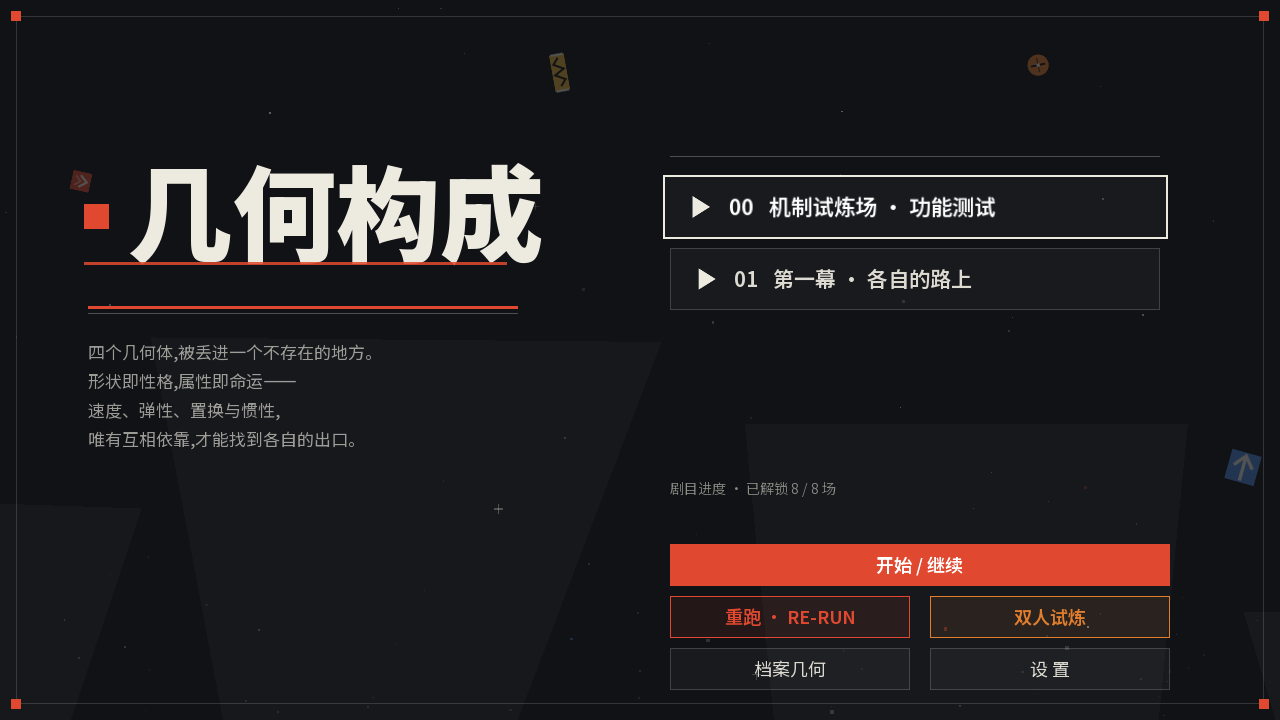
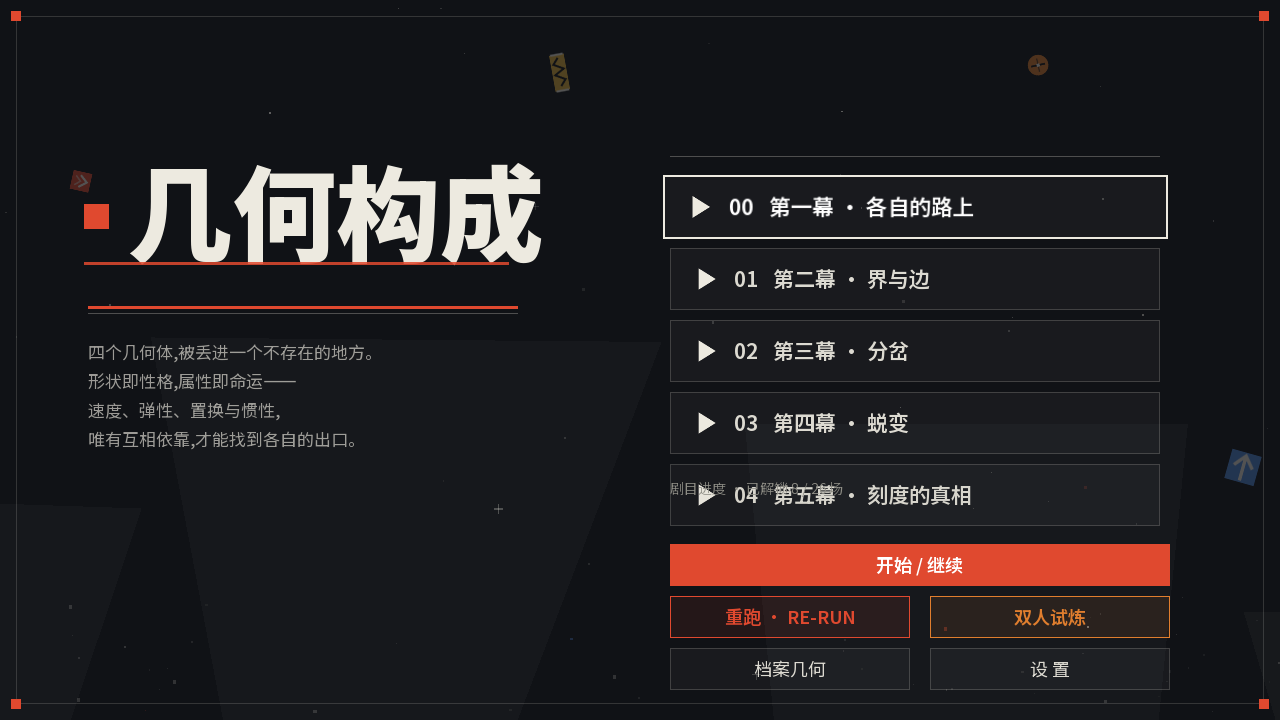
A 类清账:README 预览换五幕新关四图(旧 tube 引用为死链,一并修正)+ 图册 ui_02 菜单/ui_03 选关卡刷新(五幕剧目)+ story.md §1.5 幕表状态如实化(二~五幕 ✅ v0.44.0/第一幕正名「各自的路上」/序幕关卡清退注记/落幕占位如实);export_presets.cfg 的 etc2_astc=true 已还原至 HEAD(并行编辑器误删,建议保留声明)

diff --git a/docs/design/story.md b/docs/design/story.md
@@ -36,13 +36,13 @@
 
 | 幕 | 叙事课题 | 玩法课题 | 美术主题 | 状态 |
 |---|---|---|---|---|
-| **序幕** | 降临与相认:四几何体被丢入空白,红色刻度立规,"重拼不是终结" | 单几何体基础课 + 动态构件课 + 四人合演预演(六场连演) | 构成主义(基调) | ✅ v0.15 六场 |
-| **第一幕「引力排练」** | 巨构降临,分位规则确立——"每个人走自己的路,在各自的门里归位" | 四人合演大型关:承载链 / 置换交叉 / 速度圣殿 / 曲面板阵 / 全组合幕终 | **巨构主义**(尺度 3 倍巨面) | ✅ v0.11–v0.12 六场 |
-| **第二幕「界与边」** | 主线展开:第五刻度正式登场——界 / 边从"量天量地"的传说走进队伍;磁力边界揭示"过往"(空白处曾有第七形?) | 伍的完整教学链(磁界隔断 / 逆的递送配合)+ 旧机关复用出难题 | **极简主义**(减法关卡:留白即道路) | 📋 伍实装(V2)后立 |
-| **第三幕「分岔」** | 个人幕间:每位几何体一段独白支线(重跑单章刻画的"正剧版");轻度引入重跑系统作为"排练 own 路"的玩法语言;剧情分支处理(依幕间表现微调第五幕措辞) | 娱乐性机关与地图(钢琴砖 / 限时桥高阶编排);多解分支路 | **梦核主义**(柔光规则例外章,art-style §8) | 📋 |
-| **第四幕「蜕变」** | 部分个人幕间性格蜕变与升华(疾学会停、跃学会为自己折一次、逆落地、圆回头一次),回归主线 | 蜕变 = 该幕专属词条式关卡变奏(角色用出"不像自己"的能力课) | 构成主义 + 角色色强化 | 📋 |
-| **第五幕「刻度的真相」** | 各种设定初步表明:红色刻度的来历("它量过很多次终点")、空白与重拼的代价、第七形的下落;主线收拢 | 全几何体 + 伍的终幕大合演(七形同屏的机关交响) | **巨构主义·终演**(全主题要素回收) | 📋 |
-| **落幕** | 开放式结局:四门(七门?)归位之后的回声;陆 / 柒两形在空白深处一闪——留白,悬念铺垫,不做解释 | 无新机制;纯演出 + 结局分层(全收集追加"第五扇门"段) | 极简(回到序幕的白) | 🔍 尾声雏形 ✅(epilogue.ks,随第一幕终播) |
+| **序幕** | 降临与相认:四几何体被丢入空白,红色刻度立规,"重拼不是终结" | 单几何体基础课 + 动态构件课 + 四人合演预演(六场连演) | 构成主义(基调) | 剧本 ✅ v0.15;~~六场关卡~~ 随测试道清退(v0.44.0),正戏自第一幕开演 |
+| **第一幕「各自的路上」**(旧案名「引力排练」) | 巨构降临,分位规则确立——"每个人走自己的路,在各自的门里归位" | 五位几何体机关课六场:疾速 / 弹阶 / 对面 / 坡道 / 双生阶 + 合演终场 | **巨构主义**(尺度 3 倍巨面) | ✅ v0.38.0 六场(v0.44.0 起为全剧首幕,levels 0–5)|
+| **第二幕「界与边」** | 主线展开:第五刻度正式登场——界 / 边从"量天量地"的传说走进队伍;磁力边界揭示"过往"(空白处曾有第七形?) | 伍的完整教学链(磁界隔断 / 逆的递送配合)+ 旧机关复用出难题 | **极简主义**(减法关卡:留白即道路) | ✅ v0.44.0 六场(levels 6–11;开演剧待剧本批)|
+| **第三幕「分岔」** | 个人幕间:每位几何体一段独白支线(重跑单章刻画的"正剧版");轻度引入重跑系统作为"排练 own 路"的玩法语言;剧情分支处理(依幕间表现微调第五幕措辞) | 娱乐性机关与地图(钢琴砖 / 限时桥高阶编排);多解分支路 | **梦核主义**(柔光规则例外章,art-style §8) | ✅ v0.44.0 五场(levels 12–16;开演剧待剧本批)|
+| **第四幕「蜕变」** | 部分个人幕间性格蜕变与升华(疾学会停、跃学会为自己折一次、逆落地、圆回头一次),回归主线 | 蜕变 = 该幕专属词条式关卡变奏(角色用出"不像自己"的能力课) | 构成主义 + 角色色强化 | ✅ v0.44.0 五场(levels 17–21;开演剧待剧本批)|
+| **第五幕「刻度的真相」** | 各种设定初步表明:红色刻度的来历("它量过很多次终点")、空白与重拼的代价、第七形的下落;主线收拢 | 全几何体 + 伍的终幕大合演(七形同屏的机关交响) | **巨构主义·终演**(全主题要素回收) | ✅ v0.44.0 四场(levels 22–25,终关接尾声;开演剧待剧本批)|
+| **落幕** | 开放式结局:四门(七门?)归位之后的回声;陆 / 柒两形在空白深处一闪——留白,悬念铺垫,不做解释 | 无新机制;纯演出 + 结局分层(全收集追加"第五扇门"段) | 极简(回到序幕的白) | 🔨 尾声占位 ✅(epilogue.ks 现为第一幕终演版;正式落幕幕重写待剧本批)|
 
 - **幕推进规则**:一幕 = 一组新关卡 + 一段开演剧(如 act1.ks);幕内场次号
   由 `LevelData.ACTS` 驱动(v0.15 幕结构驱动化)。新幕落地 = ACTS 追加 +

diff --git a/README.md b/README.md
@@ -15,10 +15,10 @@
 
 ## 预览
 
-![管道测试道 · 出生段](docs/preview/tube_spawn.png)
-![推箱室](docs/preview/tube_pushbox.png)
-![弹射与传送对](docs/preview/tube_portal.png)
-![归门圆丘坡(斜刻度曲面)](docs/preview/tube_ramp.png)
+![第二幕「界与边」· 会合:界沿天花、磁界张开](docs/preview/act2_meet.png)
+![第三幕「分岔」· 圆的长坡](docs/preview/act3_roll.png)
+![第四幕「蜕变」· 疾的静止](docs/preview/act4_still.png)
+![第五幕「刻度的真相」· 落幕五门归位](docs/preview/act5_finale.png)
 
 ## 当前内容
 
